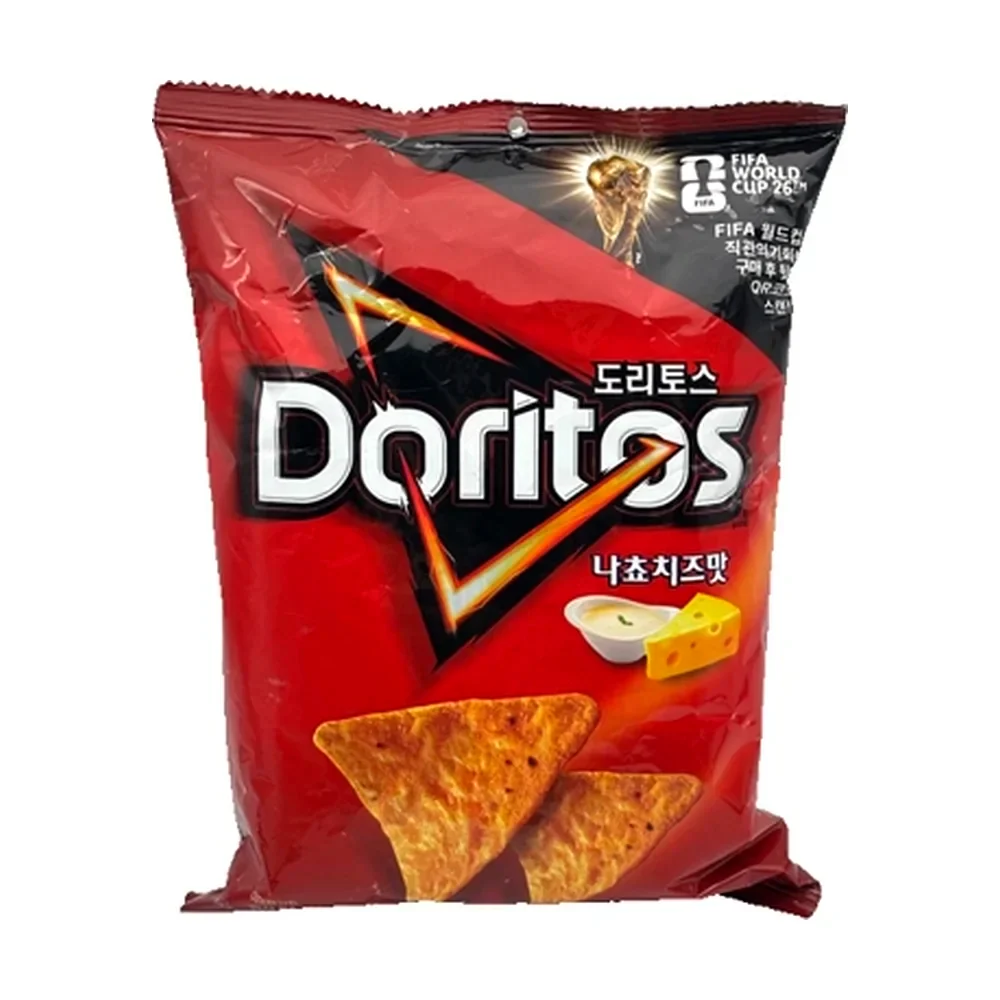
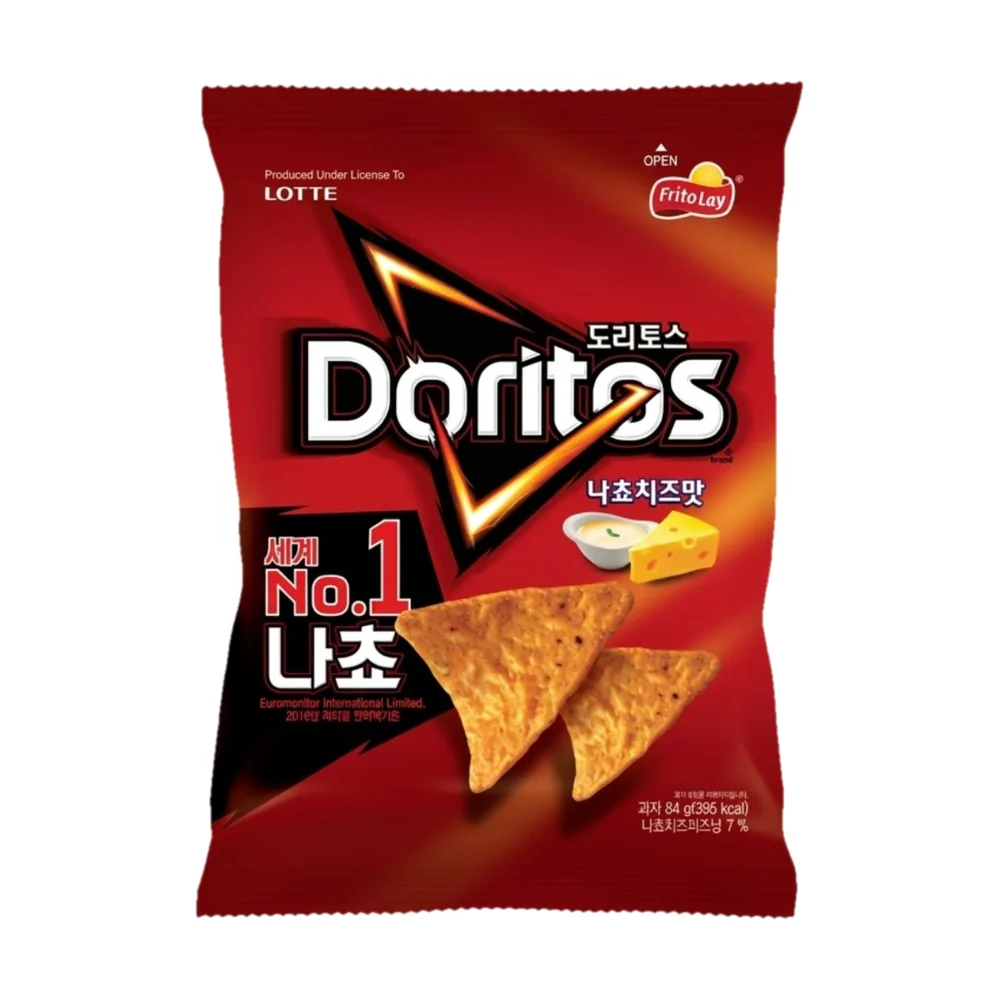
review(2549008-snack-khoai-tay): Doritos cheese regular pack render; RUBRIC v17 no event packs

diff --git a/ASK_OWNER.md b/ASK_OWNER.md
@@ -82,7 +82,6 @@
 - **Bim bim Oishi snack tater thins khoai Tây siêu mỏng 75g** (`8934803053524`, Snack khoai tây): Hai SP cùng tên 'Bim bim Oishi snack tater thins khoai Tây siêu mỏng 75g' (mã 8934803070217 và 8934803053524) không ghi vị; ảnh của cả hai đều là vị Dưa leo. Mỗi mã là vị gì (dưa leo / tảo biển / vị khác), gói bao nhiêu gam? Trang Oishi chỉ ghi cỡ 12g/30g/65g.
 - **Bim bim Ostar vị tảo biển 36GR /gói** (`8936036020939`, Snack khoai tây): SP 'Bim bim Ostar vị tảo biển 36GR' (mã 8936036020939): ảnh hiện tại là bao bì O'Star/Swing đời cũ; trang Orion chỉ còn bao bì mới và hồ sơ công bố 78/OFV/2025 ghi các cỡ 20/33/55/95/152g — không có 36g. Cửa hàng còn bán gói 36g bao bì cũ, hay đã chuyển sang gói mới (cỡ nào)? Nếu đã chuyển: dùng ảnh hãng bao bì mới và sửa tên/khối lượng trên KiotViet. (Thương hiệu trên KiotViet đang ghi 'Oishi', đúng ra là O'Star của Orion.)
 - **Bánh tráng thin flutes** (`8934803055047`, Snack khoai tây): SP 'Bánh tráng thin flutes' (mã 8934803055047) không ghi vị và khối lượng; ảnh chỉ thấy chữ 'Thin Flutes'. Oishi Thin Flutes có vị Mayo và Thịt nướng phô mai (cỡ 30g/50g). SP này vị gì, bao nhiêu gam?
-- **Snack Doritos vị phô mai (84g*12 gói/thùng)** (`8801062381814`, Snack khoai tây): Doritos phô mai 84g: ảnh đang chờ duyệt là bản FIFA World Cup (khuyến mãi cũ). Cửa hàng còn bán bản World Cup không? Nếu đã đổi bao bì, cần ảnh mẫu bản mới (chưa tìm được trên Lotte/BHX).
 - **Bánh O'star kim Chi 58g** (`8936036021653`, Snack khoai tây): SP 'Bánh O'star kim Chi 58g' (mã 8936036021653): ảnh hiện tại là bao bì O'Star/Swing đời cũ; trang Orion chỉ còn bao bì mới và hồ sơ công bố 79/OFV/2025 ghi các cỡ 20/33/55/95/152g — không có 58g. Cửa hàng còn bán gói 58g bao bì cũ, hay đã chuyển sang gói mới (cỡ nào)? Nếu đã chuyển: dùng ảnh hãng bao bì mới và sửa tên/khối lượng trên KiotViet.
 - **Bim bim Ostar to vị tảo biển 53g** (`8936036021646`, Snack khoai tây): SP 'Bim bim Ostar to vị tảo biển 53g' (mã 8936036021646): ảnh hiện tại là bao bì O'Star/Swing đời cũ; trang Orion chỉ còn bao bì mới và hồ sơ công bố 78/OFV/2025 ghi các cỡ 20/33/55/95/152g — không có 53g. Cửa hàng còn bán gói 53g bao bì cũ, hay đã chuyển sang gói mới (cỡ nào)? Nếu đã chuyển: dùng ảnh hãng bao bì mới và sửa tên/khối lượng trên KiotViet.
 - **Bim bim 2 mix vị phô mai** (`8936029425321`, Snack khoai tây): Hai SP 'Bim Orion 2MIX' (mã 8936029425314) và 'Bim bim 2 mix vị phô mai' (mã 8936029425321): Orion có 2 vị 2Mix là phô mai cay và pizza cà chua; ảnh SP thứ nhất là vị phô mai cay. Mỗi mã là vị nào, gói bao nhiêu gam? (Trang Orion không có ảnh packshot 2Mix nên ảnh sẽ cần chụp.)

diff --git a/RUBRIC.md b/RUBRIC.md
@@ -121,3 +121,4 @@ Category có thể có khuôn riêng chi tiết hơn trong `categories/<id>-<slu
 | v14 | 2026-10-15 | Nới v13: ảnh chụp tay được dùng nếu **rất đẹp**; tầm tầm thì không. **Đồng bộ theo dãy SP**: một SP trong dãy (cùng dòng/thương hiệu trong danh mục) dùng ảnh chụp tay thì cả dãy dùng ảnh chụp tay — không trộn chụp tay với ảnh hãng/Gemini trong cùng dãy. Mặc định ưu tiên Gemini vì đồng bộ hơn. | Chủ |
 | v15 | 2026-10-15 | **Thứ tự ưu tiên ảnh:** ảnh hãng/NPP > ảnh Gemini vẽ lại (mẫu từ internet hoặc ảnh chụp tay; AI không được sai nội dung đáng kể) > ảnh chụp tay đã xử lý đủ (tách nền, crop, cân bằng trắng, độ tươi). Rà lại cả SP đang chờ duyệt theo thứ tự này. | Chủ |
 | v16 | 2026-10-16 | **Nhãn khối lượng:** khi nhiều cỡ của cùng một SP dùng chung một ảnh mặt trước (vd. Lay's Nori 53g và 90g), gắn nhãn khối lượng lên ảnh bằng `tools/size_tag.py` (viên tròn tối góc phải dưới, vd. "53g"; SP thu nhỏ còn 80% để nhãn không đè gói). Khối lượng lấy theo tên SP trên KiotViet; ghi `image.sizeTag`. Giữ ảnh chưa gắn nhãn ở `work/untagged/`. | Chủ |
+| v17 | 2026-10-16 | Ảnh luôn dùng **bao bì thường, không phải bản sự kiện/khuyến mãi** (World Cup, Tết, bóng đá, mùa lễ). Cùng mã vạch thì ruột như nhau → dùng bản thường dù cửa hàng còn hàng bản sự kiện. Kiểu ảnh chủ muốn: **render phẳng, sạch** như bản thiết kế bao bì (không nhăn, không bóng lóa). | Chủ (Doritos) |

diff --git a/STATUS.md b/STATUS.md
@@ -2,13 +2,13 @@
 
 > Sinh tự động bởi `node tools/status.mjs`. **Không sửa tay.** Nguồn sự thật là `meta.json` của từng SP.
 
-Tổng 2448 SP · đã xem 2428 (99%) · xong 600 · chờ chủ duyệt 741 · cần chụp 866 · hỏi chủ 221
+Tổng 2448 SP · đã xem 2428 (99%) · xong 600 · chờ chủ duyệt 742 · cần chụp 866 · hỏi chủ 220
 
 Thứ tự làm: từ trên xuống (doanh số 90 ngày giảm dần). `xong` = giữ nguyên + đã lên web.
 
 | # | Category | DT 90 ngày | Tổng | Chưa xem | Giữ nguyên | Đang làm | Cần chụp | Hỏi chủ | Chờ duyệt | Đã duyệt | Đã lên web |
 |---|---|---:|---:|---:|---:|---:|---:|---:|---:|---:|---:|
-| 1 | Snack khoai tây | 0.0tr | 75 | 0 | 0 | 0 | 0 | 19 | 1 | 0 | 55 |
+| 1 | Snack khoai tây | 0.0tr | 75 | 0 | 0 | 0 | 0 | 18 | 2 | 0 | 55 |
 | 2 | Snack bắp & phồng | 0.0tr | 64 | 0 | 0 | 0 | 17 | 16 | 7 | 0 | 24 |
 | 3 | Kem que | 0.0tr | 60 | 0 | 0 | 0 | 24 | 5 | 31 | 0 | 0 |
 | 4 | Socola thanh | 0.0tr | 53 | 0 | 0 | 0 | 11 | 5 | 0 | 0 | 37 |
